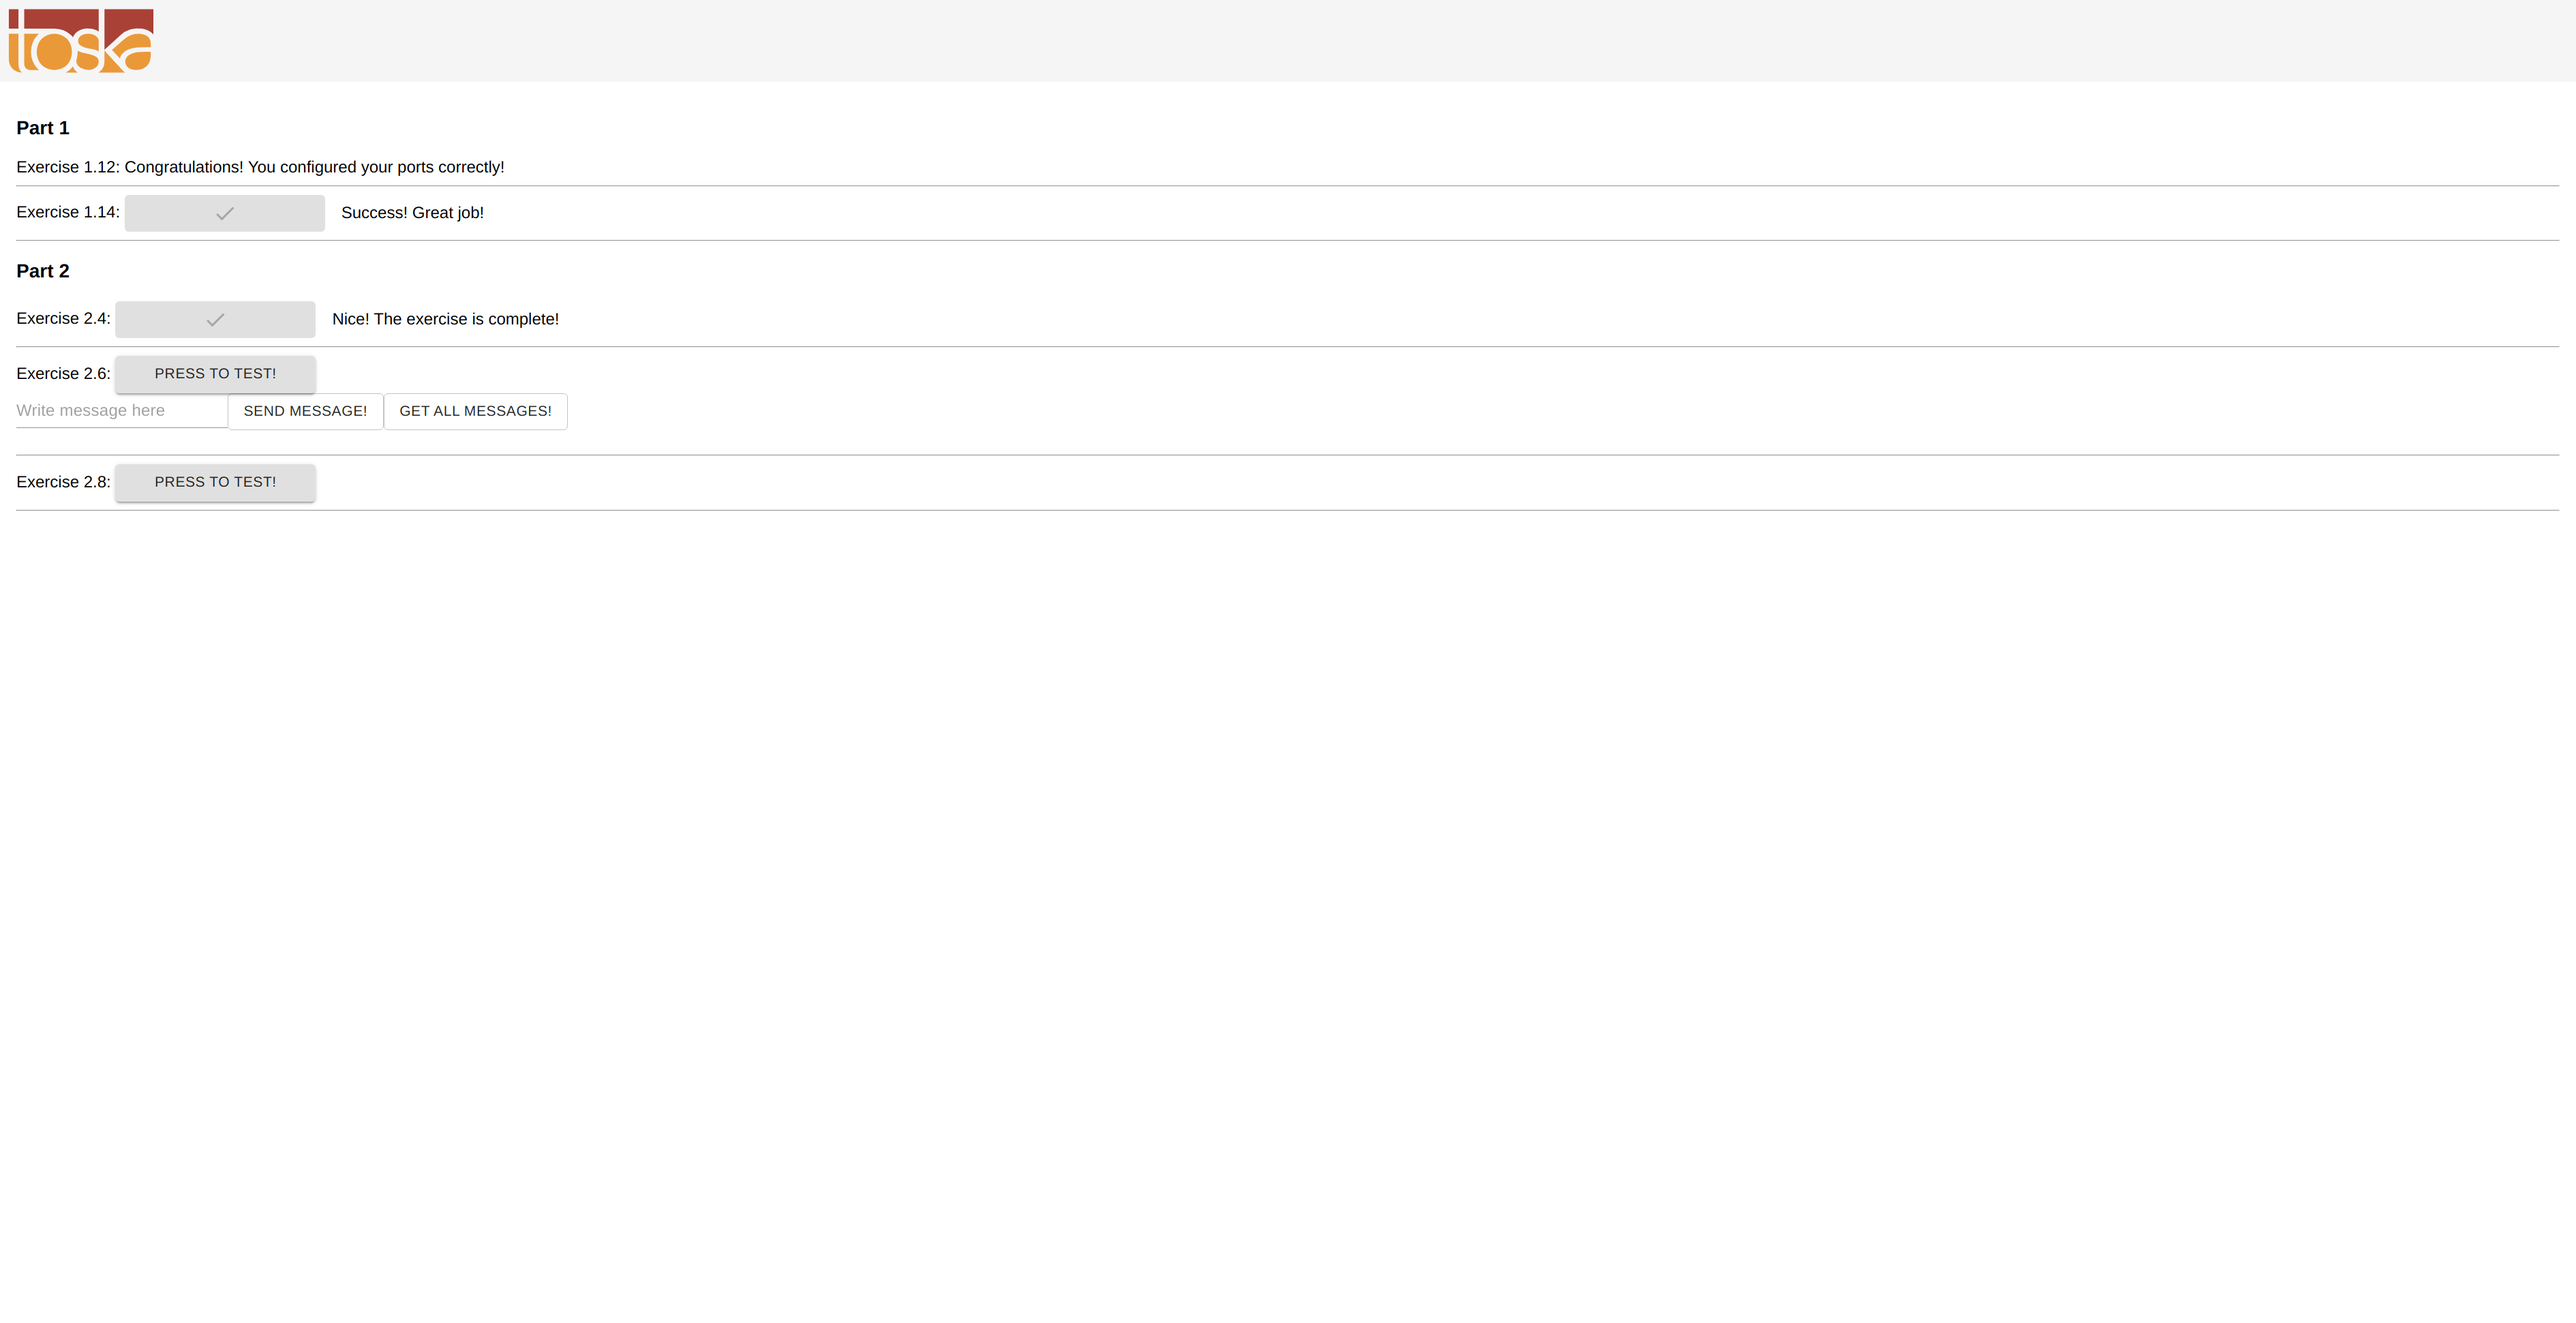
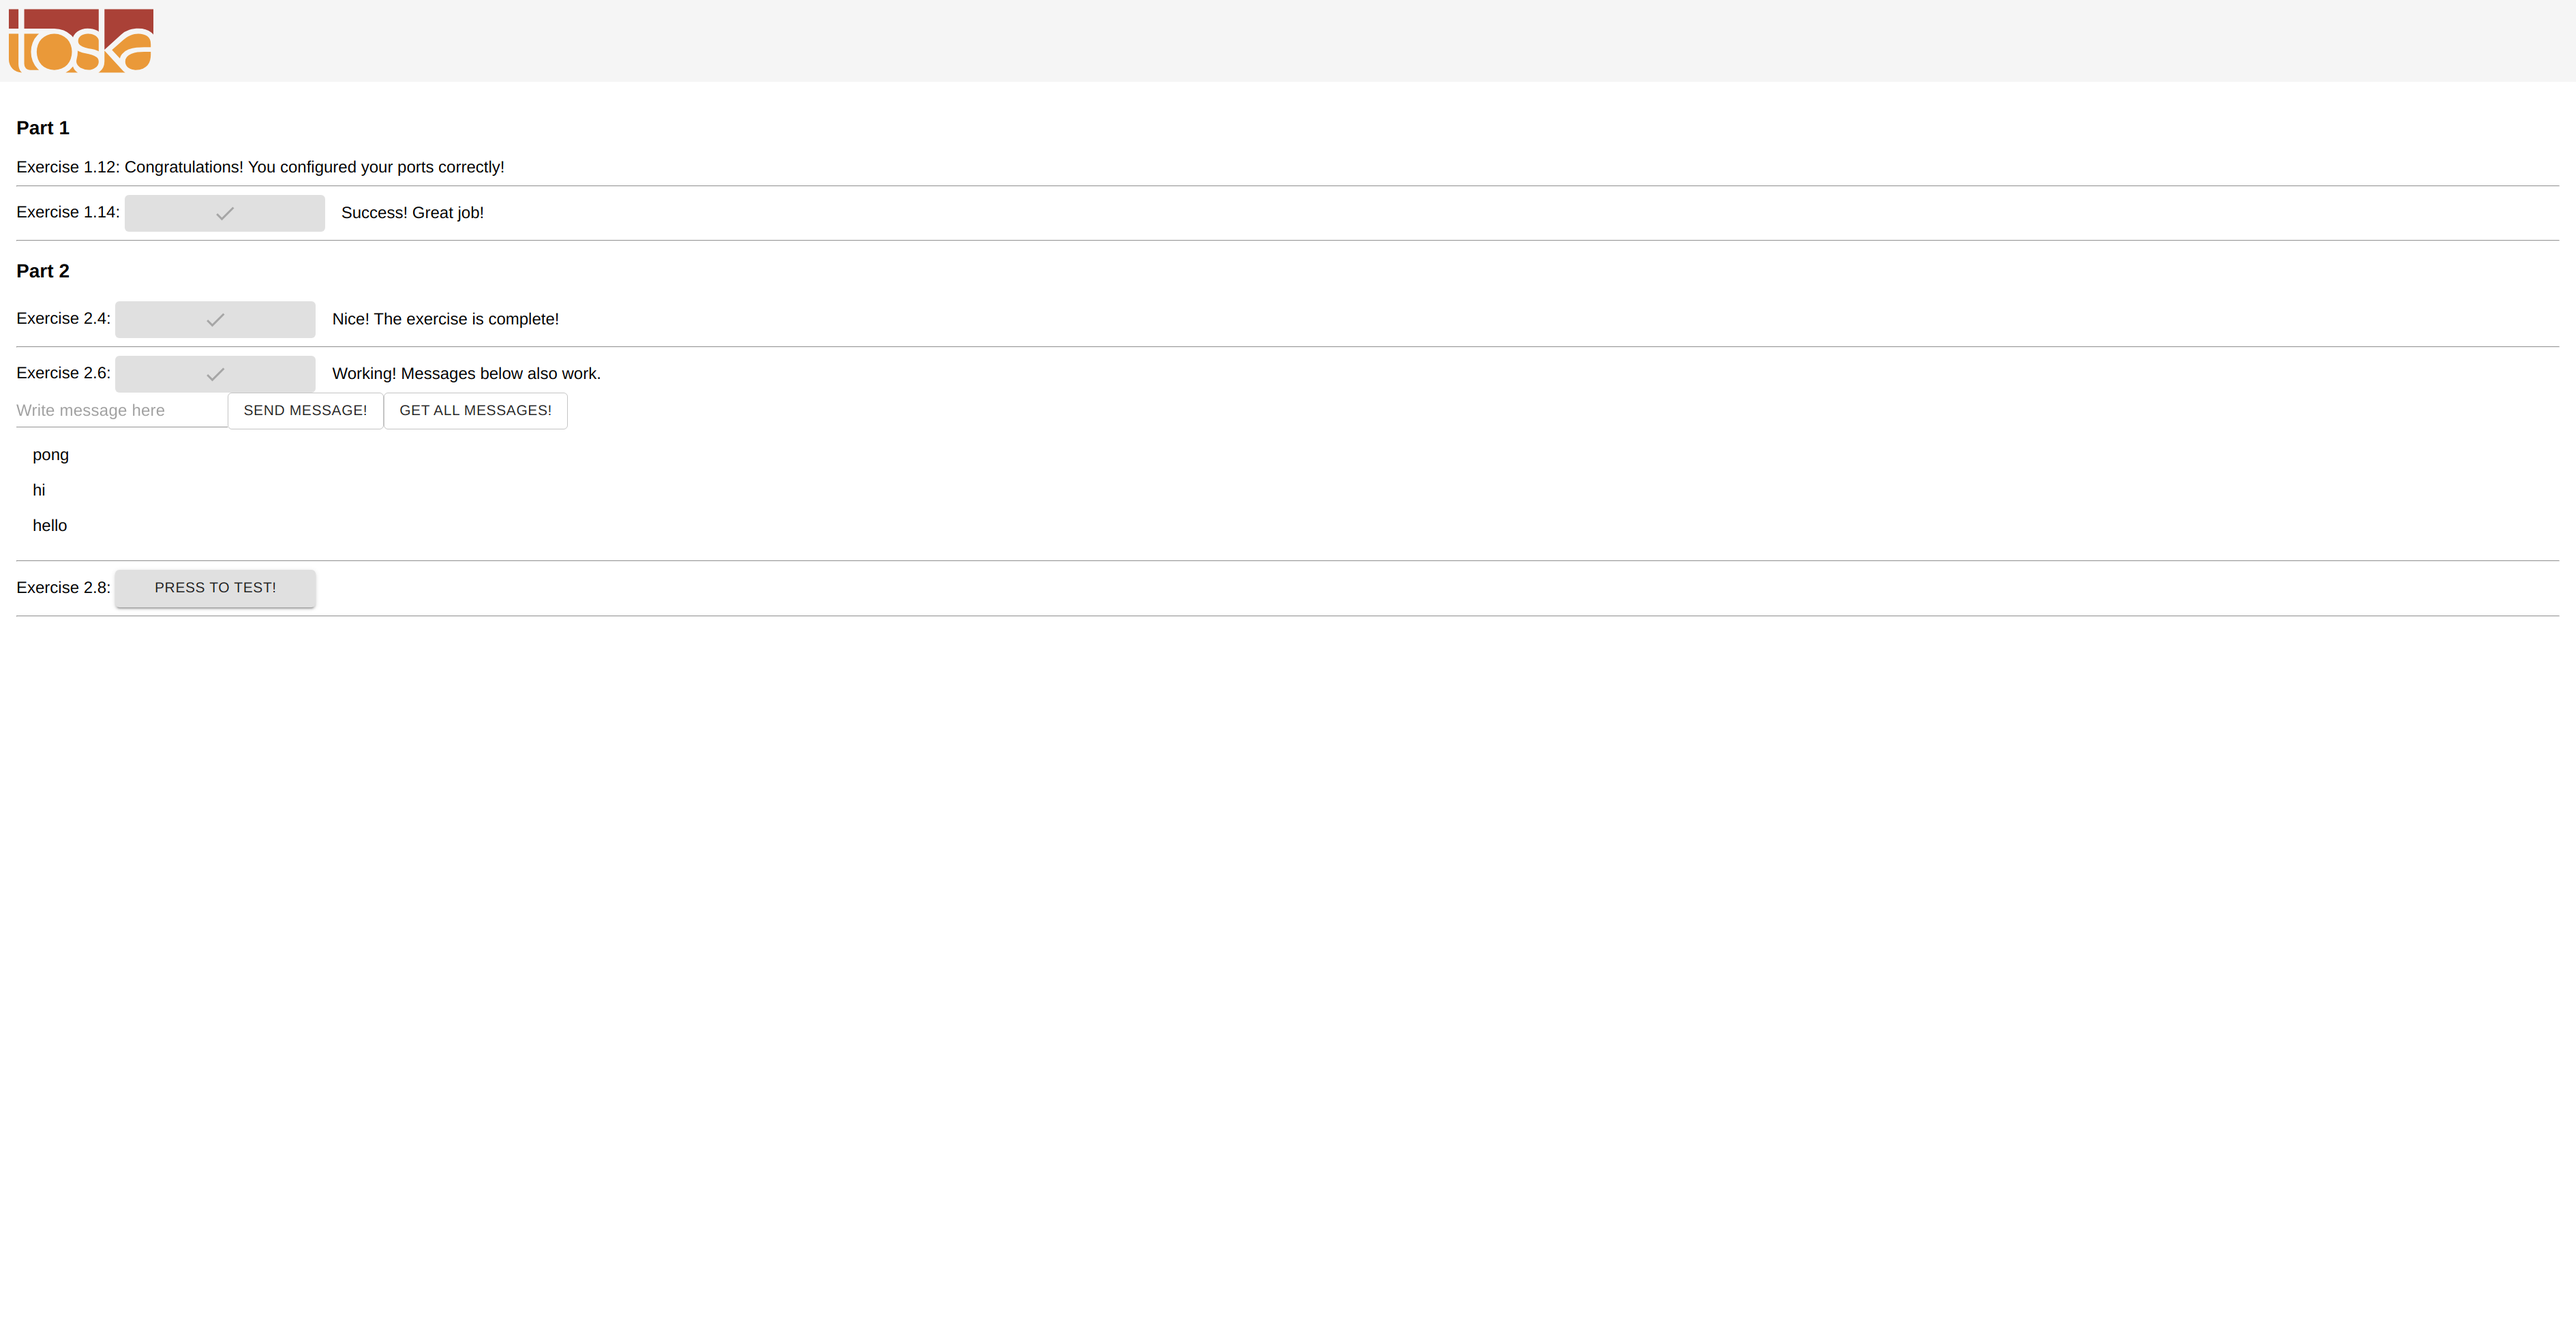
Update solution for exercise 2.6

Changed region(s): [[0.0, 0.34, 0.1249, 0.4019], [0.0625, 0.2782, 0.2186, 0.34], [0.0, 0.4328, 0.1249, 0.4637]]

diff --git a/part2/exercise2.6/commands.md b/part2/exercise2.6/commands.md
@@ -1,27 +1,82 @@
 ### Start a Multi-Container Application with Postgres, Redis, Backend, and Frontend Services Using Docker Compose
 ```
 $ docker compose up
-[+] Running 3/3
- ✔ Container exercise26-db-1       Running                                                                                                                                                                                       0.0s 
- ✔ Container exercise26-redis-1    Running                                                                                                                                                                                       0.0s 
- ✔ Container exercise26-backend-1  Running                                                                                                                                                                                       0.0s 
+[+] Running 4/4
+ ✔ Container exercise26-redis-1     Created                                                                                                                                                                                      0.0s 
+ ✔ Container exercise26-db-1        Created                                                                                                                                                                                      0.0s 
+ ✔ Container exercise26-frontend-1  Created                                                                                                                                                                                      0.0s 
+ ✔ Container exercise26-backend-1   Recreated                                                                                                                                                                                    0.0s 
 Attaching to backend-1, db-1, frontend-1, redis-1
+redis-1     | 1:C [DATETIME] # WARNING Memory overcommit must be enabled! Without it, a background save or replication may fail under low memory condition. Being disabled, it can also cause failures without low memory condition, see https://github.com/jemalloc/jemalloc/issues/1328. To fix this issue add 'vm.overcommit_memory = 1' to /etc/sysctl.conf and then reboot or run the command 'sysctl vm.overcommit_memory=1' for this to take effect.
+redis-1     | 1:C [DATETIME] * oO0OoO0OoO0Oo Redis is starting oO0OoO0OoO0Oo
+redis-1     | 1:C [DATETIME] * Redis version=7.4.2, bits=64, commit=00000000, modified=0, pid=1, just started
+redis-1     | 1:C [DATETIME] # Warning: no config file specified, using the default config. In order to specify a config file use redis-server /path/to/redis.conf
+redis-1     | 1:M [DATETIME] * Increased maximum number of open files to 10032 (it was originally set to 1024).
+redis-1     | 1:M [DATETIME] * monotonic clock: POSIX clock_gettime
+redis-1     | 1:M [DATETIME] * Running mode=standalone, port=6379.
+redis-1     | 1:M [DATETIME] * Server initialized
+redis-1     | 1:M [DATETIME] * Loading RDB produced by version 7.4.2
+redis-1     | 1:M [DATETIME] * RDB age 205 seconds
+redis-1     | 1:M [DATETIME] * RDB memory usage when created 0.93 Mb
+redis-1     | 1:M [DATETIME] * Done loading RDB, keys loaded: 1, keys expired: 0.
+redis-1     | 1:M [DATETIME] * DB loaded from disk: 0.001 seconds
+redis-1     | 1:M [DATETIME] * Ready to accept connections tcp
+db-1        | 
+db-1        | PostgreSQL Database directory appears to contain a database; Skipping initialization
+db-1        | 
+db-1        | [DATETIME] UTC [1] LOG:  starting PostgreSQL 17.4 (Debian 17.4-1.pgdg120+2) on x86_64-pc-linux-gnu, compiled by gcc (Debian 12.2.0-14) 12.2.0, 64-bit
+db-1        | [DATETIME] UTC [1] LOG:  listening on IPv4 address "x.x.x.x", port 5432
+db-1        | [DATETIME] UTC [1] LOG:  listening on IPv6 address "::", port 5432
+db-1        | [DATETIME] UTC [1] LOG:  listening on Unix socket "/var/run/postgresql/.s.PGSQL.5432"
+db-1        | [DATETIME] UTC [29] LOG:  database system was shut down at [DATETIME] UTC
+db-1        | [DATETIME] UTC [1] LOG:  database system is ready to accept connections
+backend-1   | [Ex 2.4+] Initializing redis client
+backend-1   | [Ex 2.4+] Connection to redis initialized, ready to ping pong.
+backend-1   | [Ex 2.6+] Initializing postgres connection with envs
+backend-1   |           POSTGRES_HOST      db,
+backend-1   |           POSTGRES_USER:     postgres,
+backend-1   |           POSTGRES_PASSWORD: postgres,
+backend-1   |           POSTGRES_DATABASE: postgres
+backend-1   |           to db:5432
+backend-1   | [Ex 2.6+] Connection to postgres initialized, ready to ping pong.
+backend-1   | [GIN-debug] [WARNING] Creating an Engine instance with the Logger and Recovery middleware already attached.
+backend-1   | 
+backend-1   | [GIN-debug] [WARNING] Running in "debug" mode. Switch to "release" mode in production.
+backend-1   |  - using env:     export GIN_MODE=release
+backend-1   |  - using code:    gin.SetMode(gin.ReleaseMode)
+backend-1   | 
+backend-1   | [GIN-debug] GET    /ping                     --> server/router.pingpong (4 handlers)
+backend-1   | [GIN-debug] GET    /messages                 --> server/controller.GetMessages (4 handlers)
+backend-1   | [GIN-debug] POST   /messages                 --> server/controller.CreateMessage (4 handlers)
+backend-1   | [GIN-debug] Listening and serving HTTP on :8080
 frontend-1  |  INFO  Accepting connections at http://localhost:5000
 frontend-1  |  HTTP  [DATETIME] x.x.x.x GET /
-frontend-1  |  HTTP  [DATETIME] x.x.x.x Returned 304 in 27 ms
+frontend-1  |  HTTP  [DATETIME] x.x.x.x Returned 304 in 36 ms
 frontend-1  |  HTTP  [DATETIME] x.x.x.x GET /static/css/main.eaa5d75e.chunk.css
 frontend-1  |  HTTP  [DATETIME] x.x.x.x GET /static/js/2.43ca3586.chunk.js
 frontend-1  |  HTTP  [DATETIME] x.x.x.x GET /static/js/main.667b6e84.chunk.js
-frontend-1  |  HTTP  [DATETIME] x.x.x.x Returned 304 in 3 ms
-frontend-1  |  HTTP  [DATETIME] x.x.x.x Returned 304 in 3 ms
-frontend-1  |  HTTP  [DATETIME] x.x.x.x Returned 304 in 5 ms
+frontend-1  |  HTTP  [DATETIME] x.x.x.x Returned 304 in 11 ms
+frontend-1  |  HTTP  [DATETIME] x.x.x.x Returned 304 in 7 ms
+frontend-1  |  HTTP  [DATETIME] x.x.x.x Returned 304 in 12 ms
 frontend-1  |  HTTP  [DATETIME] x.x.x.x GET /static/media/toskalogo.c0f35cf0.svg
 frontend-1  |  HTTP  [DATETIME] x.x.x.x Returned 304 in 2 ms
-frontend-1  |  HTTP  [DATETIME] x.x.x.x GET /manifest.json
 frontend-1  |  HTTP  [DATETIME] x.x.x.x GET /favicon.ico
+frontend-1  |  HTTP  [DATETIME] x.x.x.x GET /manifest.json
 frontend-1  |  HTTP  [DATETIME] x.x.x.x Returned 304 in 3 ms
-frontend-1  |  HTTP  [DATETIME] x.x.x.x Returned 304 in 6 ms
-backend-1   | [GIN] [DATETIME] | 200 |     315.752µs |      x.x.x.x | GET      "/ping"
+frontend-1  |  HTTP  [DATETIME] x.x.x.x Returned 304 in 4 ms
+backend-1   | [GIN] [DATETIME] | 200 |     231.931µs |      x.x.x.x | GET      "/ping"
 backend-1   | ping pong
-backend-1   | [GIN] [DATETIME] | 200 |     476.526µs |      x.x.x.x | GET      "/ping?redis=true"
+backend-1   | [GIN] [DATETIME] | 200 |     394.828µs |      x.x.x.x | GET      "/ping?redis=true"
+backend-1   | &{1 pong}
+backend-1   | [GIN] [DATETIME] | 200 |    4.476203ms |      x.x.x.x | GET      "/ping?postgres=true"
+backend-1   | [GIN] [DATETIME] | 200 |    5.944324ms |      x.x.x.x | POST     "/messages"
+backend-1   | [GIN] [DATETIME] | 200 |    2.409172ms |      x.x.x.x | GET      "/messages"
+backend-1   | [GIN] [DATETIME] | 200 |    4.880528ms |      x.x.x.x | POST     "/messages"
+backend-1   | [GIN] [DATETIME] | 200 |    1.018813ms |      x.x.x.x | GET      "/messages"
+Gracefully stopping... (press Ctrl+C again to force)
+[+] Stopping 4/4
+ ✔ Container exercise26-backend-1   Stopped                                                                                                                                                                                      0.4s 
+ ✔ Container exercise26-frontend-1  Stopped                                                                                                                                                                                      0.5s 
+ ✔ Container exercise26-redis-1     Stopped                                                                                                                                                                                      0.3s 
+ ✔ Container exercise26-db-1        Stopped
 ```
